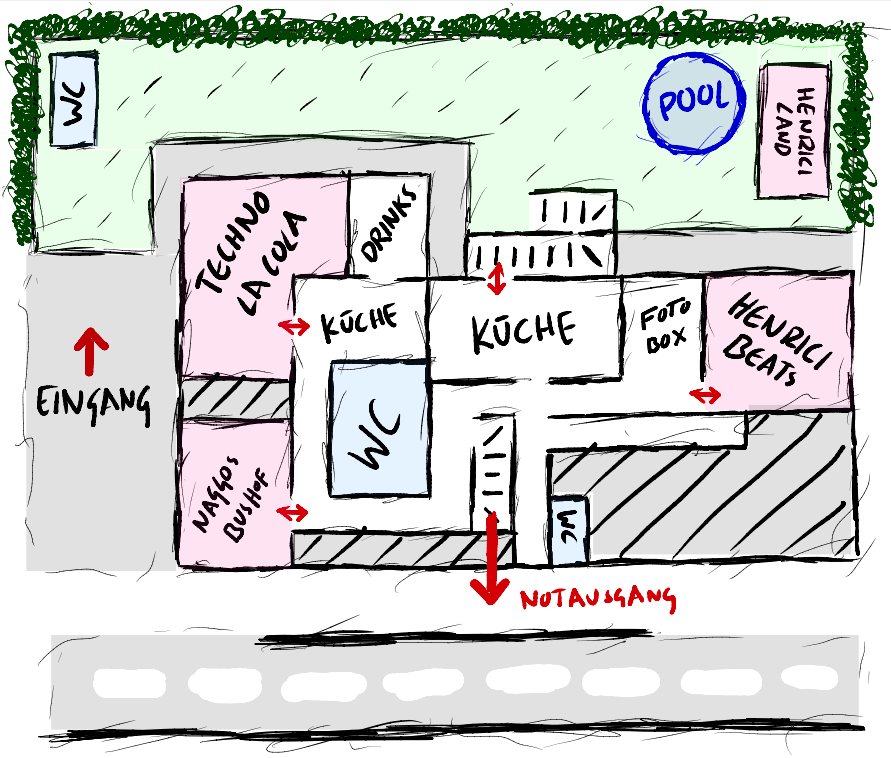
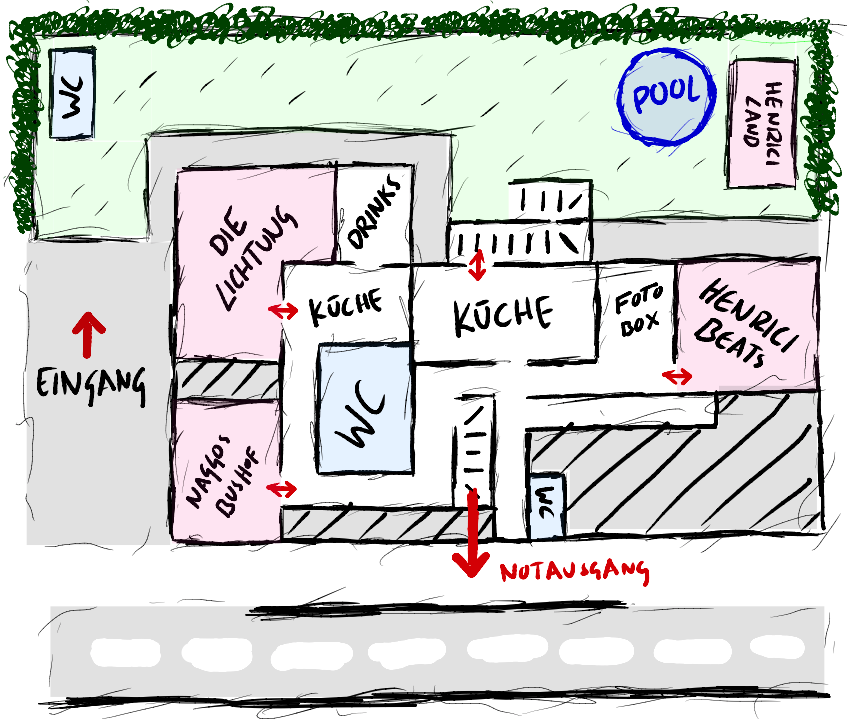
Updated floor plan

diff --git a/docs/line-up.md b/docs/line-up.md
@@ -8,7 +8,7 @@ sidebar_label: Line-Up
 ![Example banner](./floor-map.png)
 
 ## Timetable
-| Zeit  | Henriciland             | Genre                    | | Henrici Beats           | Genre                    | | Die Lichtung im Wald    | Genre                    | | Naggos Bushof           | Genre                    |
+| Zeit  | Henriciland             | Genre                    | | Henrici Beats           | Genre                    | | Die Lichtung            | Genre                    | | Naggos Bushof           | Genre                    |
 |------:|:-----------------------:|:------------------------:|-|:-----------------------:|:------------------------:|-|:-----------------------:|:------------------------:|-|:-----------------------:|:------------------------:|
 | 14:00 | Ballerbenni Ultrabock   | Ballermann Supermix      | |                         |                          | |                         |                          | |                         |                          |
 | 15:00 | DJ Loco                 | Reggaeton & Hip Hop      | |                         |                          | |                         |                          | |                         |                          |
@@ -17,7 +17,7 @@ sidebar_label: Line-Up
 | 18:00 | Glückskind              | Electrochill             | | Benni & Mary            | 80s                      | |                         |                          | |                         |                          |
 | 19:00 | Lobomusic               | **Vinyl Set**            | | "                       | 80s                      | |                         |                          | |                         |                          |
 | 20:00 | Clean Josef             | Jazz House               | | DJ Loco                 | Hip Hop                  | |                         |                          | | Nacho                   | Indie & Punk             |
-| 21:00 | Tunnelmichi            | Vocal & Melodic House    | | "                       | Hip Hop                  | | Micha & Jonas           | Techno                   | | Joel                    | Techno                   |
+| 21:00 | Tunnelmichi             | Vocal & Melodic House    | | "                       | Hip Hop                  | | Micha & Jonas           | Techno                   | | Joel                    | Techno                   |
 | 22:00 |                         |                          | | Yolonas                 | Querbeats                | | "                       | Techno                   | | "                       | Techno                   |
 | 23:00 |                         |                          | | "                       | Hip Hop & Trap           | | Lobomusic               | Melodic Techno           | | DJ Pauli                | radiate love             |
 |  0:00 |                         |                          | | ?                       | ?                        | | "                       | Melodic Techno           | | Basstey                 | Tech House               |
